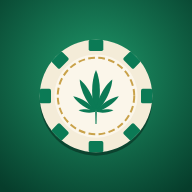
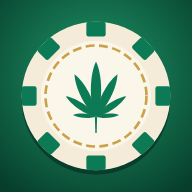
Ícono de Android con la misma ficha x1.32 que el de iPhone
Claude-Session: https://claude.ai/code/session_012Qdti7RkxnUYziTV5gA4zF

Changed region(s): [[0.0938, 0.0938, 0.9062, 0.9062]]

diff --git a/docs/plan-truco.md b/docs/plan-truco.md
@@ -248,9 +248,10 @@ Reglas confirmadas (las fuentes no coinciden en los valores):
   segura de Android (`public/favicon.svg` es la fuente; PNG de 512, 192, 180
   para iPhone y 32). El fondo de apertura de Android (`background_color` del
   manifest) es el verde del paño.
-  El de iPhone (180) lleva la ficha 1,32 veces más grande (28/11/2026, a
-  pedido): iOS no recorta como Android, así que no necesita la zona segura. Se
-  genera de `favicon.svg` envolviendo todo menos el fondo en
+  Los de iPhone (180) y Android (192 y 512) llevan la ficha 1,32 veces más
+  grande (28/11/2026, a pedido); en Android sigue entrando en la zona segura
+  (radio 198 de 512, la zona segura es 205). Se generan de `favicon.svg`
+  envolviendo todo menos el fondo en
   `<g transform="translate(256 256) scale(1.32) translate(-256 -256)">`.
   `ICON_VERSION` pasó a "3" para que los iPhone que ya la tenían la vuelvan a
   agregar.
